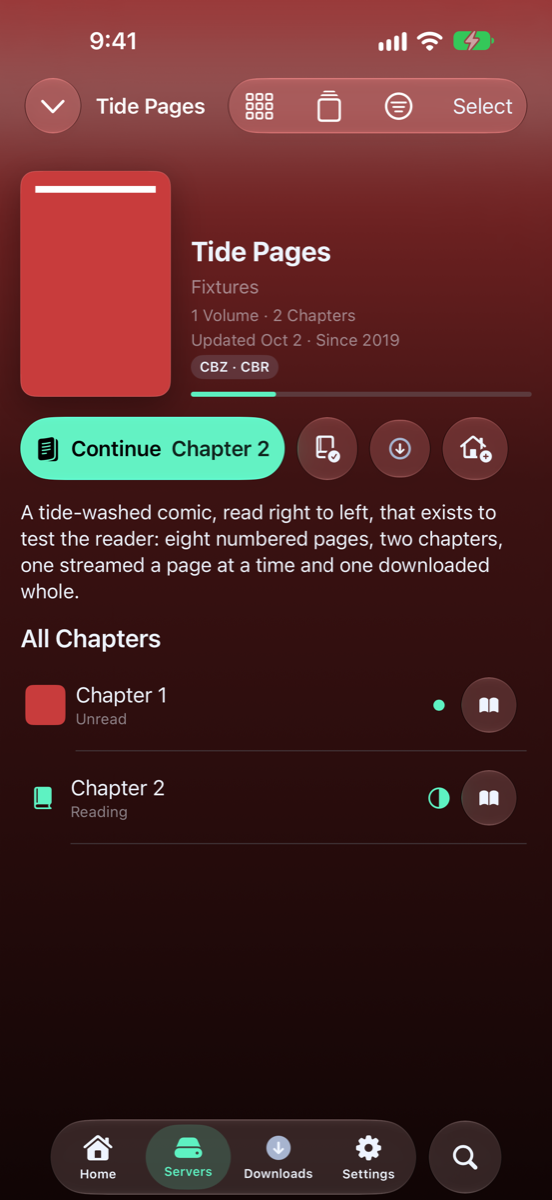
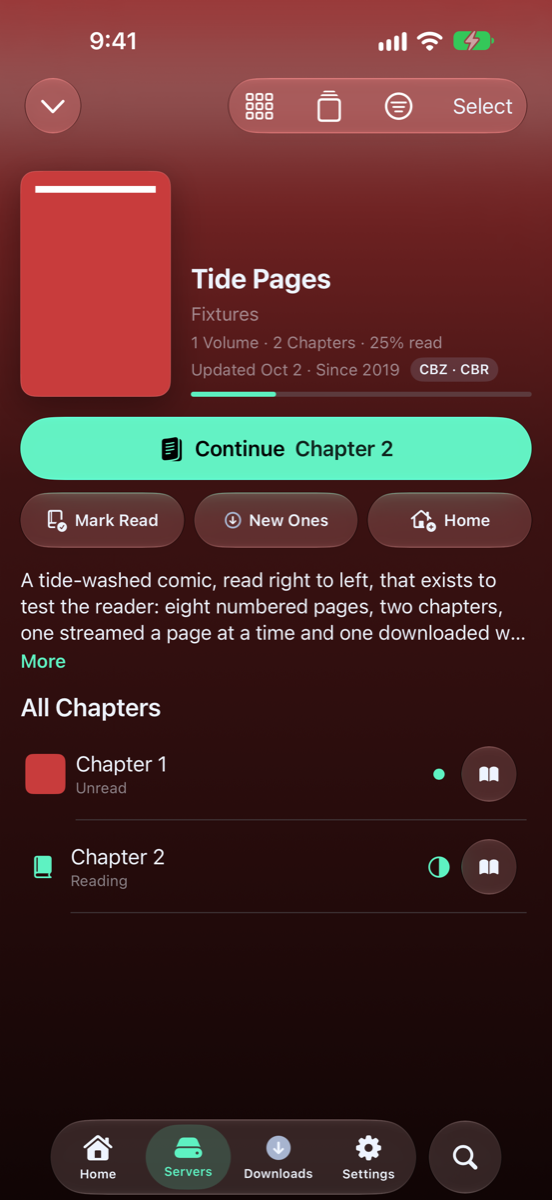
Publish the guide (from 99e76e9d)

Changed region(s): [[0.0308, 0.185, 0.9855, 0.7708], [0.1848, 0.0617, 0.3696, 0.1233], [0.0616, 0.7092, 0.0924, 0.74]]

diff --git a/OPDS-Catalogs.md b/OPDS-Catalogs.md
@@ -99,12 +99,14 @@ A library's series show as covers, three across or more. The library's name is a
 ### A series
 
 <div class="shot" markdown="0">
-<div class="shot-variant shot-iphone-18-pro-max"><img src="images/iphone-18-pro-max/books-series.png" alt="The Tide Pages series on an iPhone 18 Pro Max: its cover and details, a Continue Chapter 2 button with Mark as Read, Download and Add to Home beside it, the summary, and All Chapters listing each chapter with its read mark and a round Read button, on an iPhone 18 Pro Max" loading="lazy"><div class="shot-label">iPhone 18 Pro Max</div></div>
-<div class="shot-variant shot-duo-front"><img src="images/duo-front/books-series.png" alt="The Tide Pages series on an iPhone 18 Pro Max: its cover and details, a Continue Chapter 2 button with Mark as Read, Download and Add to Home beside it, the summary, and All Chapters listing each chapter with its read mark and a round Read button, on the iPhone Duo, closed" loading="lazy"><div class="shot-label">iPhone Duo — closed</div></div>
-<div class="shot-variant shot-duo-open-side"><img src="images/duo-open-side/books-series.png" alt="The Tide Pages series on an iPhone 18 Pro Max: its cover and details, a Continue Chapter 2 button with Mark as Read, Download and Add to Home beside it, the summary, and All Chapters listing each chapter with its read mark and a round Read button, on the iPhone Duo, open on its side" loading="lazy"><div class="shot-label">iPhone Duo — open, on its side</div></div>
+<div class="shot-variant shot-iphone-18-pro-max"><img src="images/iphone-18-pro-max/books-series.png" alt="The Tide Pages series on an iPhone 18 Pro Max: its cover, name and two lines of details, a Continue Chapter 2 button across the page with Mark Read, New Ones and Home under it, the summary, and All Chapters listing each chapter with its read mark and a round Read button, on an iPhone 18 Pro Max" loading="lazy"><div class="shot-label">iPhone 18 Pro Max</div></div>
+<div class="shot-variant shot-duo-front"><img src="images/duo-front/books-series.png" alt="The Tide Pages series on an iPhone 18 Pro Max: its cover, name and two lines of details, a Continue Chapter 2 button across the page with Mark Read, New Ones and Home under it, the summary, and All Chapters listing each chapter with its read mark and a round Read button, on the iPhone Duo, closed" loading="lazy"><div class="shot-label">iPhone Duo — closed</div></div>
+<div class="shot-variant shot-duo-open-side"><img src="images/duo-open-side/books-series.png" alt="The Tide Pages series on an iPhone 18 Pro Max: its cover, name and two lines of details, a Continue Chapter 2 button across the page with Mark Read, New Ones and Home under it, the summary, and All Chapters listing each chapter with its read mark and a round Read button, on the iPhone Duo, open on its side" loading="lazy"><div class="shot-label">iPhone Duo — open, on its side</div></div>
 </div>
 
-A series page shows its cover, summary and progress, and a button for what to read next. The button says **Start Reading**, **Continue**, **Read Next** or **Read Again**, whichever fits where you are. When a series has both volumes and chapters, a row of covers above the list shows one kind at a time, and **Volumes** and **Chapters** switch between them. A swipe along the row stops on a cover, and the cover to read next has a round read button that opens it. If you'd rather the row scrolled freely, turn off Settings → **Catalogs** → **Series Shelf Snaps to Covers**.
+A series page shows its cover and name, a line with how many volumes and chapters there are and how much you've read, when it was last updated, and its summary. Across the page is a button for what to read next. It says **Start Reading**, **Continue**, **Read Next** or **Read Again**, whichever fits where you are. Under it, **Mark Read** marks the whole series read (or unread), **New Ones** downloads new chapters as they arrive, and **Home** adds the series to a Home. When a series has both volumes and chapters, a row of covers above the list shows one kind at a time, and **Volumes** and **Chapters** switch between them. A swipe along the row stops on a cover, and the cover to read next has a round read button that opens it. If you'd rather the row scrolled freely, turn off Settings → **Catalogs** → **Series Shelf Snaps to Covers**.
+
+On an iPhone Duo or iPad, a series page opens on a card with the series' colors, and the strip beside it keeps your Home's colors. To have the series' colors fill the strip and the band above the card too, turn on Settings → **Catalogs** → **Series Color Around the Card**.
 
 Each book in the list says how far you've got: **Read** with a check mark in a circle, the page you're on (**Page 12 of 40**) with a half-filled circle, or **Unread** with a dot. The same goes for a folder of comics on a share.
 

diff --git a/Settings-Media.md b/Settings-Media.md
@@ -87,7 +87,7 @@ Settings → **Catalogs** is for Kavita, Komga and the other book servers: how t
 - **Series Cards**: **Volumes & Chapters**, **Reading Progress**, **Last Added**, **Start Year**, **Continue Button** and **Summary** switch what a series' card shows. The button says Start Reading, Continue or Read Again, and the summary is on to start with.
 - **Section Cards**: **Covers on Section Cards** shows what's in **On Deck**, **Recently Added** or a library on its card. **Cover Cycle** is how they move, **Speed** is how long each stays, and **Blurred Background** washes the main cover behind them.
 - **Books**: **Book Pages** opens a book's page when you tap it, with a button to read it; off, a tap opens the book. **Read Button on Covers** puts a **Read** button on each book's cover. **Sort Books by Series** starts a list of books sorted by series, then by each book's place in it. See [A book's page](OPDS-Catalogs.html#a-books-page).
-- **Series Pages**: **Series Pages** puts a series' cover, summary, progress and a button for what to read next above its volumes. **Cover Behind Series Pages** blurs the cover behind the page. **Series Shelf Snaps to Covers** makes the row of covers (a series with volumes and chapters) stop on a cover after each swipe, with a round read button on the one to read next; off, it scrolls freely and the button stays off the cover. **Swipe to Mark Read** lets a swipe right on a volume or chapter mark it read, or unread if it's read.
+- **Series Pages**: **Series Pages** puts a series' cover, summary, progress and a button for what to read next above its volumes. **Cover Behind Series Pages** blurs the cover behind the page. **Series Color Around the Card** (iPhone Duo and iPad) lets the series' colors fill the strip and the band above a series page's card too; off, they keep your Home's colors. **Series Shelf Snaps to Covers** makes the row of covers (a series with volumes and chapters) stop on a cover after each swipe, with a round read button on the one to read next; off, it scrolls freely and the button stays off the cover. **Swipe to Mark Read** lets a swipe right on a volume or chapter mark it read, or unread if it's read.
 - **Reading**: **Stream Comic Pages** opens a comic straight away and loads its pages as you read. **Sync Reading Progress** keeps your place in sync with the server; a server can turn it on or off for itself, under its **Reading**. See [Read, and keep your place](OPDS-Catalogs.html#read-and-keep-your-place).
 
 The iPhone Duo adds two switches to **Series Pages**: see [On your device](Devices.html).

diff --git a/whats-new.md b/whats-new.md
@@ -12,6 +12,34 @@ The highlights of each MK Plus update since public TestFlight testing began (ver
 
 ## November 2026
 
+### A tidier series page
+
+_Version 1.432.0 · 27 November 2026_
+
+- A series page says its name once, with its counts, progress and dates in two short lines.
+- Mark Read, New Ones and Home sit under the read button, each with its name.
+- On the iPhone Duo and iPad, the strip beside a series' card keeps your Home's colors. Turn on Series Color Around the Card to fill it with the series' instead.
+
+<img src="images/iphone-18-pro-max/books-series.png" width="300" alt="The Tide Pages series on an iPhone 18 Pro Max: its cover, name and two lines of details, a Continue Chapter 2 button across the page with Mark Read, New Ones and Home under it, the summary, and All Chapters listing each chapter with its read mark and a round Read button">
+
+<details markdown="1">
+<summary>Everything in 1.432.0</summary>
+
+**New**
+
+- Series Color Around the Card (Settings → Catalogs → Series Pages, iPhone Duo and iPad): the series' colors fill the strip and the band above its card, so the card floats on them.
+
+**Changed**
+
+- The strip beside a series page's card keeps your Home's colors, so it no longer ends in a square corner beside the card.
+- A series page shows its name once, on the page, not in the bar above it too.
+- Kavita's counts and how much you've read share one line, and the format sits beside the dates.
+- The read button runs across the page, with Mark Read, New Ones and Home under it, named and the same size.
+- The summary leaves out Kavita's "Format: … Summary:" start and shows three lines, with More.
+- Volumes and Chapters above the row of covers are headings now, not buttons.
+
+</details>
+
 ### Carousels that stop on a cover, with a read button
 
 _Version 1.431.0 · 27 November 2026_
@@ -59,8 +87,6 @@ _Version 1.429.0 · 27 November 2026_
 - A series page no longer shows its chapters or their count twice.
 - Mark as Read and Add to Home have their own symbols, a book with a tick and a house with a plus.
 - A video that can't play shows only its message and one Close.
-
-<img src="images/iphone-18-pro-max/books-series.png" width="300" alt="The Tide Pages series on an iPhone 18 Pro Max: its cover and details, a Continue Chapter 2 button with Mark as Read (a book with a tick), Download and Add to Home (a house with a plus) beside it, the summary, and All Chapters listing each chapter once">
 
 <details markdown="1">
 <summary>Everything in 1.429.0</summary>

diff --git a/Devices.md b/Devices.md
@@ -126,7 +126,7 @@ Upright, and bent so the fold runs across, the Duo can stand on a table. **Table
 - A book shows two pages side by side upright as well as on its side, because **Two Pages When Upright** is on to start with on an iPad.
 - On a book server's series page, with the iPad on its side, **Series Details Beside the List** (Settings → Catalogs) puts the series' details in a column beside its books, as on the Duo. Upright, they stay above the list.
 
-  <img src="images/ipad-air-11/books-series-side.png" width="520" alt="A series on an iPad Air on its side: the cover, title, progress and Continue button in a column on the left, the chapters beside it">
+  <img src="images/ipad-air-11/books-series-side.png" width="520" alt="A series on an iPad Air on its side: the cover, title, details, Continue button and Mark Read, New Ones and Home in a column on the left, the chapters beside it">
 
 - On its side, Settings keeps its list of pages on the left and the page you pick on the right, as on the Duo. Switch it with **Two Columns on Its Side** (Settings → Settings Display). Upright, in a narrow Split View window, or with **Large Settings** off, Settings is one column.
 
